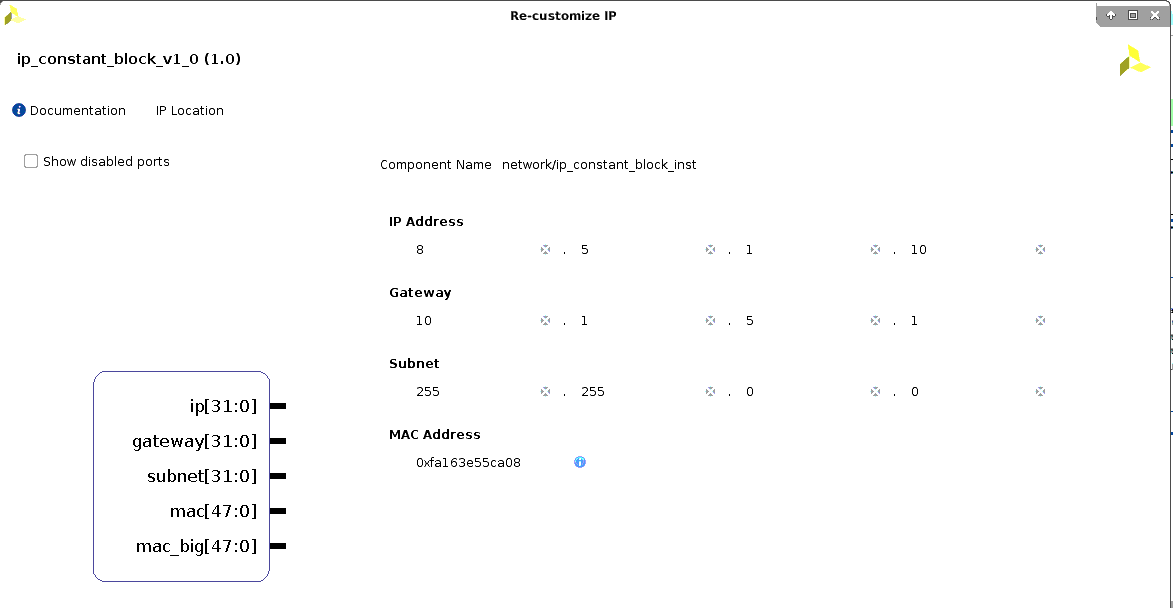
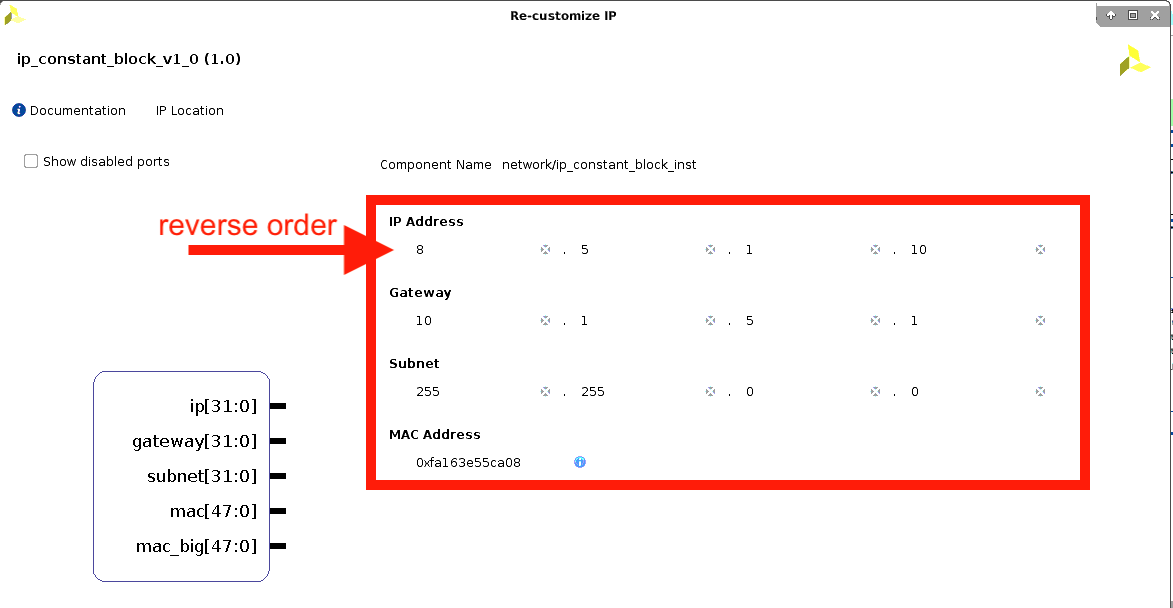
hardware readme updated

Changed region(s): [[0.1228, 0.3125, 0.9514, 0.8125]]

diff --git a/hardware/README.md b/hardware/README.md
@@ -28,7 +28,8 @@ You have to modify these lines to correct the absolute path on your local machin
 3- Then, when Vivado came up, go to the `Tools` and click `Run Tcl Script...`. 
 Select `build.tcl` and compile it.
 It might take seconds or minutes to ultimately create the project, including the block design. 
-`TODO add picture`
+
+<img src="https://github.com/UofT-HPRC/galapagos_aes/blob/main/hardware/PNGs/read_tcl.png" width="600"/>
 
 4- Search for `IP INTEGRATOR` under `Flow Navigator`, click `Open Block Design`, and open `pr.bd`.
 You don't have anything to do with `shell.bd` unless you were curious about it.
@@ -44,14 +45,15 @@ You can use any MAC address you want, but I suggest modifying only 8 LSB bits.
 P.S: Any questions regarding `Gulf-Stream` should be asked from Clark who developed this UDP bridge.
 This is the main GitHub repo of `Gulf-Stream`: https://github.com/UofT-HPRC/GULF-Stream.git
 
-<img src="https://github.com/UofT-HPRC/galapagos_aes/blob/main/hardware/PNGs/gulf_stream.png" width="400"/>
+<img src="https://github.com/UofT-HPRC/galapagos_aes/blob/main/hardware/PNGs/gulf_stream.png" width="600"/>
 
 4.2- Double click on `ip_constant_block_inst` and modify all four parameters. 
 These parameters should be the same as what you configured in the previous step (4.1).
 One thing you should notice here is that `IP Address` should be filled in reverse order. 
 For instance, in the picture below, the address I used was `10.1.5.8`, so I filled it in reverse like `8.5.1.10`.
 Other fields should be filled as always.
-`TODO add picture`
+
+<img src="https://github.com/UofT-HPRC/galapagos_aes/blob/main/hardware/PNGs/ip_constant_block.png" width="600"/>
 
 4.3- Double click on `blk_mem_gen_0`, go to the other options, and click `Edit` to edit the Coe file.
 You have to add all the ip addresses you use for Galapagos kernels you have in your project.
@@ -66,6 +68,8 @@ For the kernels on CPU, we used ip address `10.1.2.101`, which is equal to `1678
 For the kernels on FPGA, we used ip address `10.1.5.8`, which is equal to `167838984` in decimal.
 Also, it is worth mentioning that you have to separate different ip addresses by writing three 0s like what we did in our example `0 0 0`. 
 Finally, save the file.
+
+<img src="https://github.com/UofT-HPRC/galapagos_aes/blob/main/hardware/PNGs/ip.coe.png" width="600"/>
 
 5- By now, after modifying all the things explained above, you should be ready to generate the bitstreams.
 To do so, click the `Generate Bitstream`.
